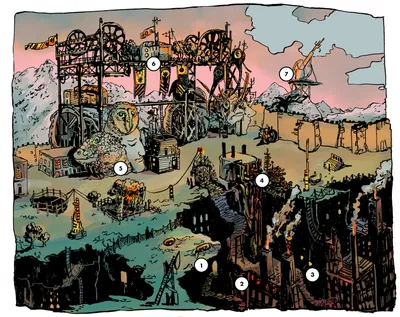
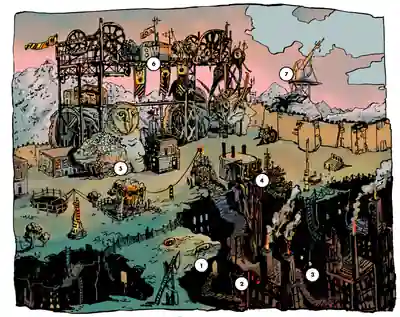
Recompress responsive images at WebP quality 15 for 80+ KiB savings
blog-map-color-800w.webp drops from 132 KiB to 52 KiB (80 KiB reduction).
All responsive variants regenerated with quality 15, effort 6.

diff --git a/fellspiral/test/image-size.test.ts b/fellspiral/test/image-size.test.ts
@@ -1,0 +1,19 @@
+import { describe, it, expect } from "vitest";
+import { existsSync, statSync } from "node:fs";
+import { join, dirname } from "node:path";
+
+const publicDir = join(
+  dirname(new URL(import.meta.url).pathname),
+  "..",
+  "public",
+);
+const imagePath = join(publicDir, "blog-map-color-800w.webp");
+
+const imageExists = existsSync(imagePath);
+
+describe.skipIf(!imageExists)("image compression", () => {
+  it("blog-map-color-800w.webp is under 55,000 bytes", () => {
+    const { size } = statSync(imagePath);
+    expect(size).toBeLessThan(55_000);
+  });
+});

diff --git a/fellspiral/scripts/generate-responsive-images.ts b/fellspiral/scripts/generate-responsive-images.ts
@@ -18,7 +18,7 @@ for (const img of BLOG_IMAGES) {
     try {
       await sharp(inputPath)
         .resize(width)
-        .webp({ quality: 80 })
+        .webp({ quality: 15, effort: 6 })
         .toFile(outputPath);
     } catch (err) {
       throw new Error(`Failed to generate ${img.baseName}-${width}w.webp from ${img.original}`, { cause: err });
